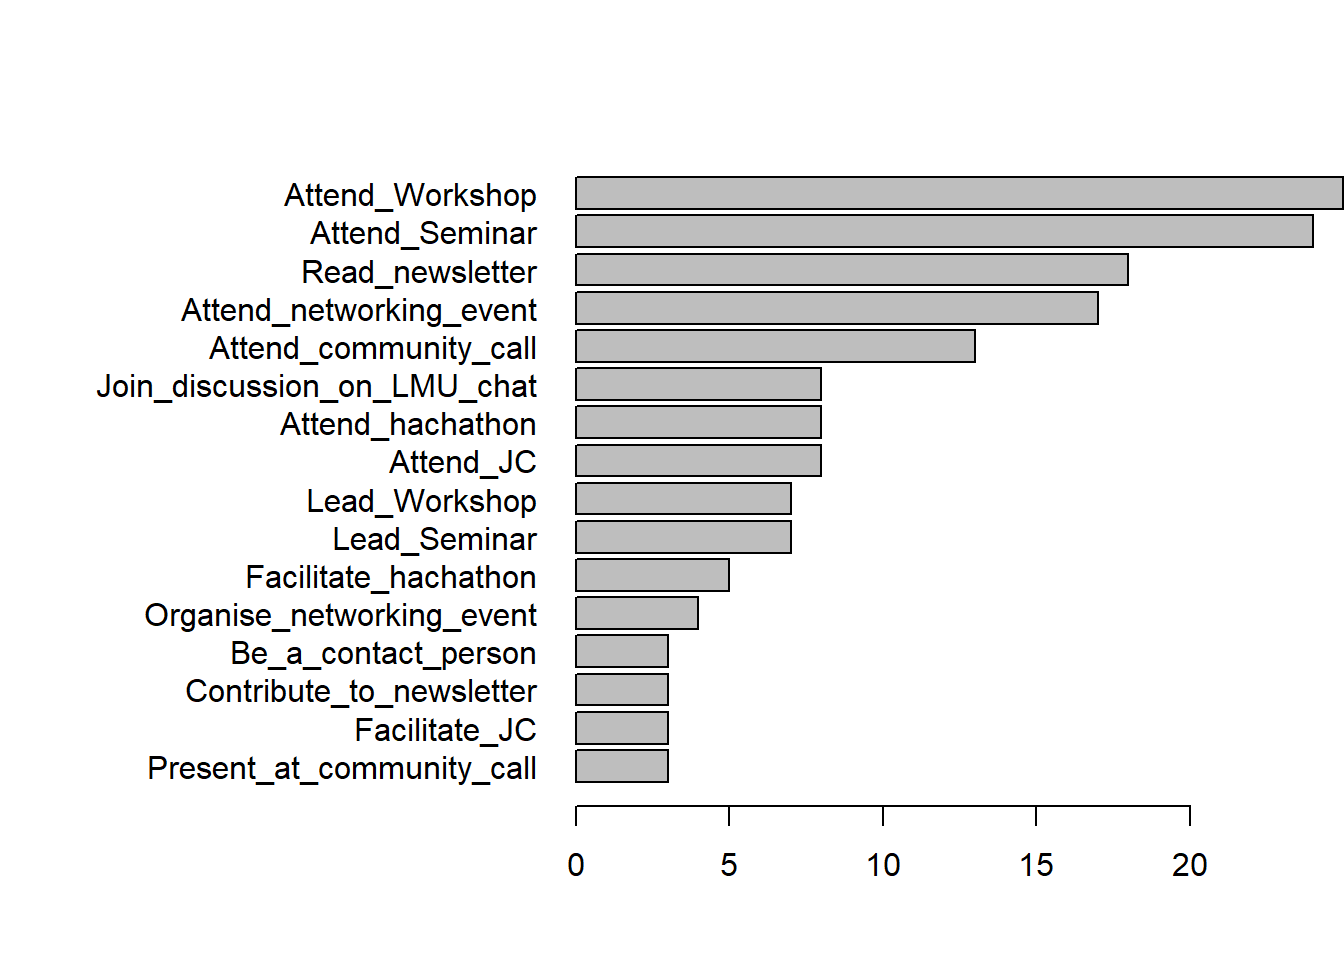
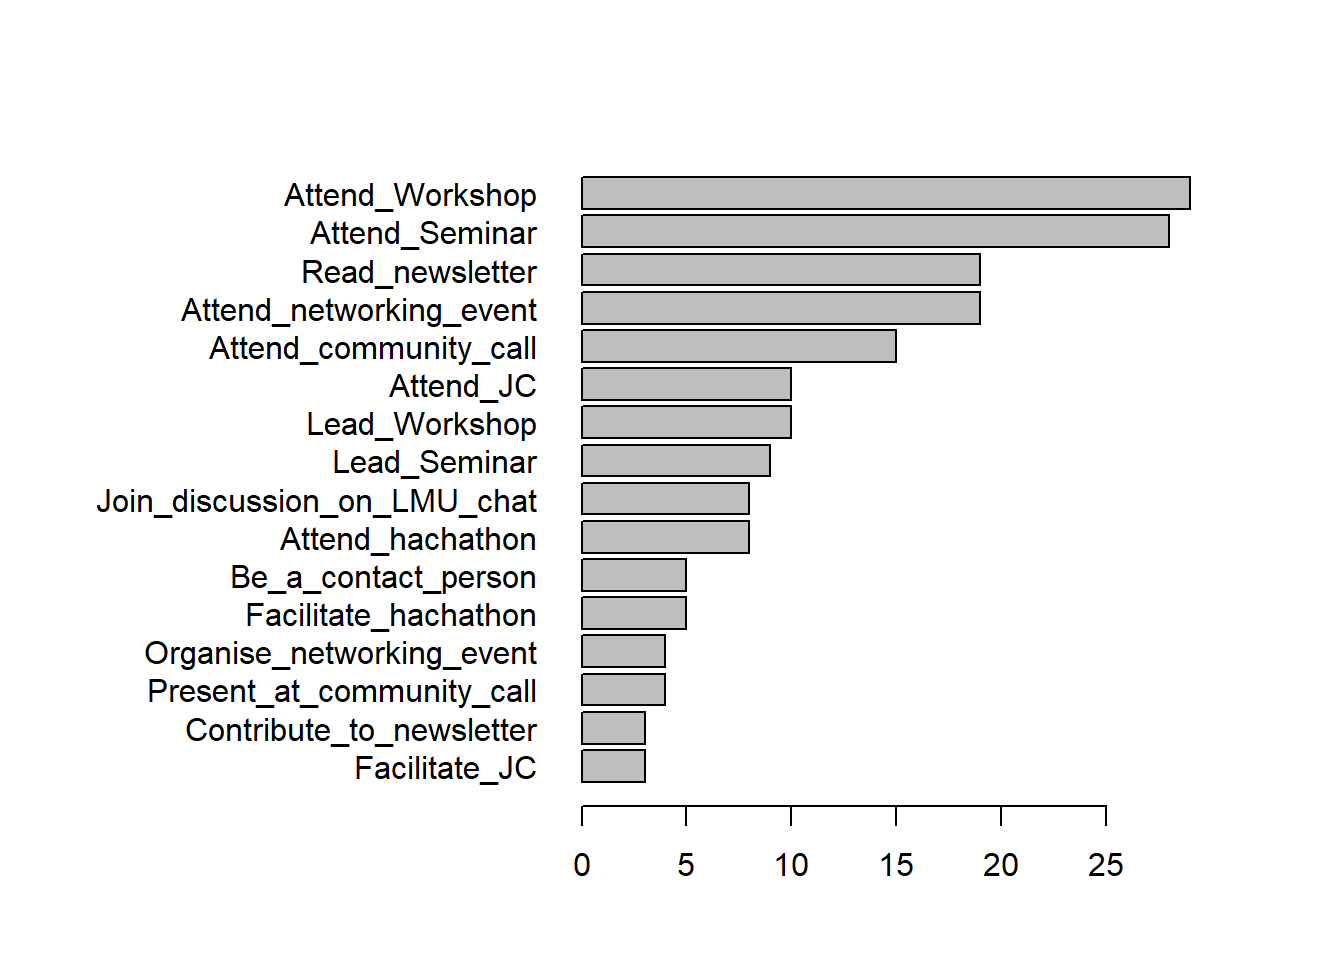
new data 8.11.

diff --git a/OSC survery results.html b/OSC survery results.html
@@ -59,7 +59,7 @@ ul.task-list{list-style: none;}
 <div class="cell">
 
 </div>
-<p>Total number of participant in the OSC survey: <strong>30</strong></p>
+<p>Total number of participant in the OSC survey: <strong>34</strong></p>
 </section>
 <section id="survey-resuts" class="level2">
 <h2 class="anchored" data-anchor-id="survey-resuts">Survey Resuts</h2>
@@ -70,8 +70,8 @@ ul.task-list{list-style: none;}
 <div class="cell">
 <div class="cell-output cell-output-stdout">
 <pre><code>
- No Yes 
- 17  13 </code></pre>
+     No unknown     Yes 
+     18       1      15 </code></pre>
 </div>
 </div>
 </section>
@@ -81,7 +81,7 @@ ul.task-list{list-style: none;}
 <div class="cell-output cell-output-stdout">
 <pre><code>
 Germany     LMU  Munich   World 
-      4      22       3       1 </code></pre>
+      4      25       4       1 </code></pre>
 </div>
 </div>
 </section>
@@ -95,15 +95,15 @@ Germany     LMU  Munich   World
 Art, humanities, history, linguistics, and culture science 
                                                          3 
                            Biology, Chemistry, Geosciences 
-                                                         2 
+                                                         3 
                    Law, Economics, Business Administration 
                                                          2 
                     Math, Statistics, Informatics, Physics 
-                                                         4 
+                                                         5 
                              Medicine, Veterinary medicine 
-                                                         4 
+                                                         5 
          Social sciences, Psychology, educational sciences 
-                                                        14 </code></pre>
+                                                        15 </code></pre>
 </div>
 </div>
 </section>
@@ -113,7 +113,7 @@ Art, humanities, history, linguistics, and culture science
 <div class="cell-output cell-output-stdout">
 <pre><code>
          MSc        other          PhD           PI      Postdoc Supportstaff 
-           2            2            9            9            4            4 </code></pre>
+           2            2           10           11            5            4 </code></pre>
 </div>
 <div class="cell-output cell-output-stdout">
 <pre><code>
@@ -124,9 +124,12 @@ Doing applied research, evaluatoins and policy briefs  at a federal ministry
 </div>
 </div>
 </section>
-<section id="subset-for-osc-members-only" class="level4">
-<h4 class="anchored" data-anchor-id="subset-for-osc-members-only">Subset for OSC members only?</h4>
+<section id="subset-for-osc-members-or-lmu-only" class="level4">
+<h4 class="anchored" data-anchor-id="subset-for-osc-members-or-lmu-only">Subset for OSC members or LMU only?</h4>
 <div class="cell">
+<div class="cell-output cell-output-stdout">
+<pre><code>[1] "No"</code></pre>
+</div>
 <div class="cell-output cell-output-stdout">
 <pre><code>[1] "No"</code></pre>
 </div>
@@ -209,8 +212,9 @@ communication of best practices from different disciplineswithin LMU
 <p>‘If you have any comment(s) about what would help you feel comfortable contributing (e.g., language, online vs.&nbsp;in-person events, synchronous vs asynchronous contributions), please indicate them here:’</p>
 <div class="cell">
 <div class="cell-output cell-output-stdout">
-<pre><code>[1] "I'm a very minor importance in the network, so please don't weight my answers too much. I'm more intrested in following up whta you big players do and consider important"              
-[2] "Hosting, facilitating a journal club, eventually some other format where e.g. we could try to reproduce the computational part of biomedical papers (sequencing, flow cytometry, etc.) "</code></pre>
+<pre><code>[1] "I'm a very minor importance in the network, so please don't weight my answers too much. I'm more intrested in following up whta you big players do and consider important"                                                                                                                                          
+[2] "Hosting, facilitating a journal club, eventually some other format where e.g. we could try to reproduce the computational part of biomedical papers (sequencing, flow cytometry, etc.) "                                                                                                                            
+[3] "I think our main contribution (OSIS), could be to help with individual seminars/workshops on statistics/machine learning related topics or specific R packages/workflows\n\nBut we'd have to see if there are resources and who (from our group) could contribute to topics that are interesting to the community. "</code></pre>
 </div>
 </div>
 </section>
